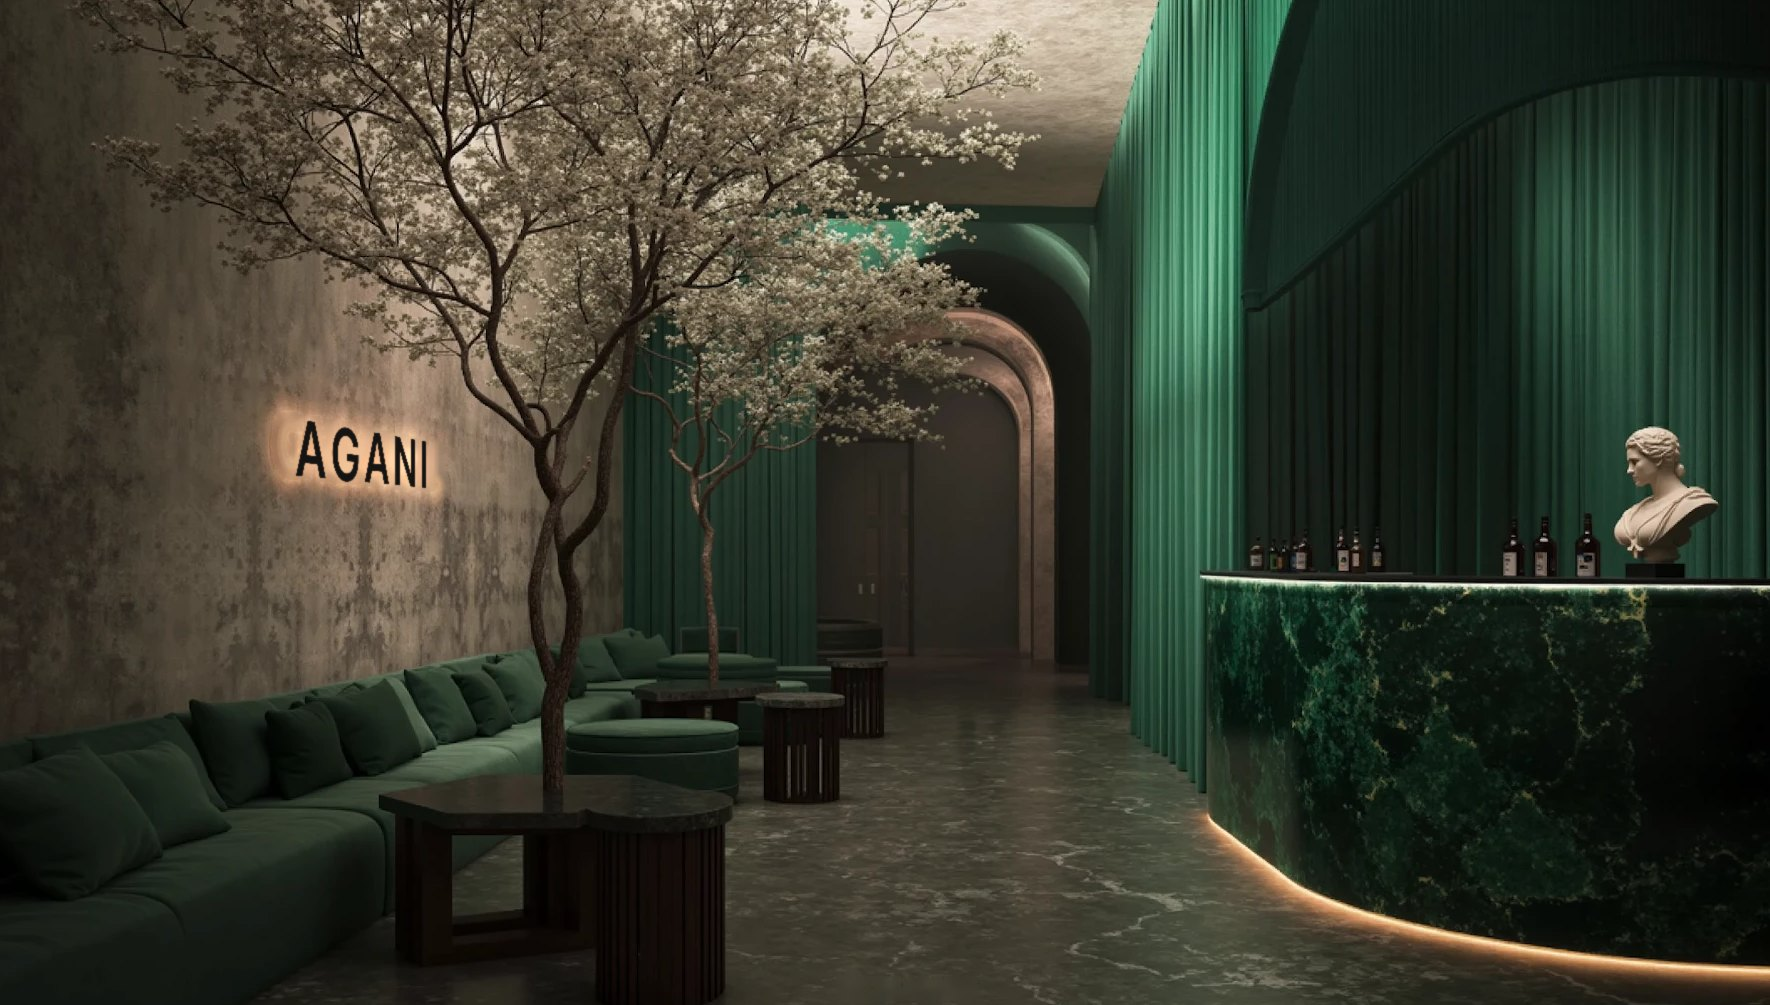
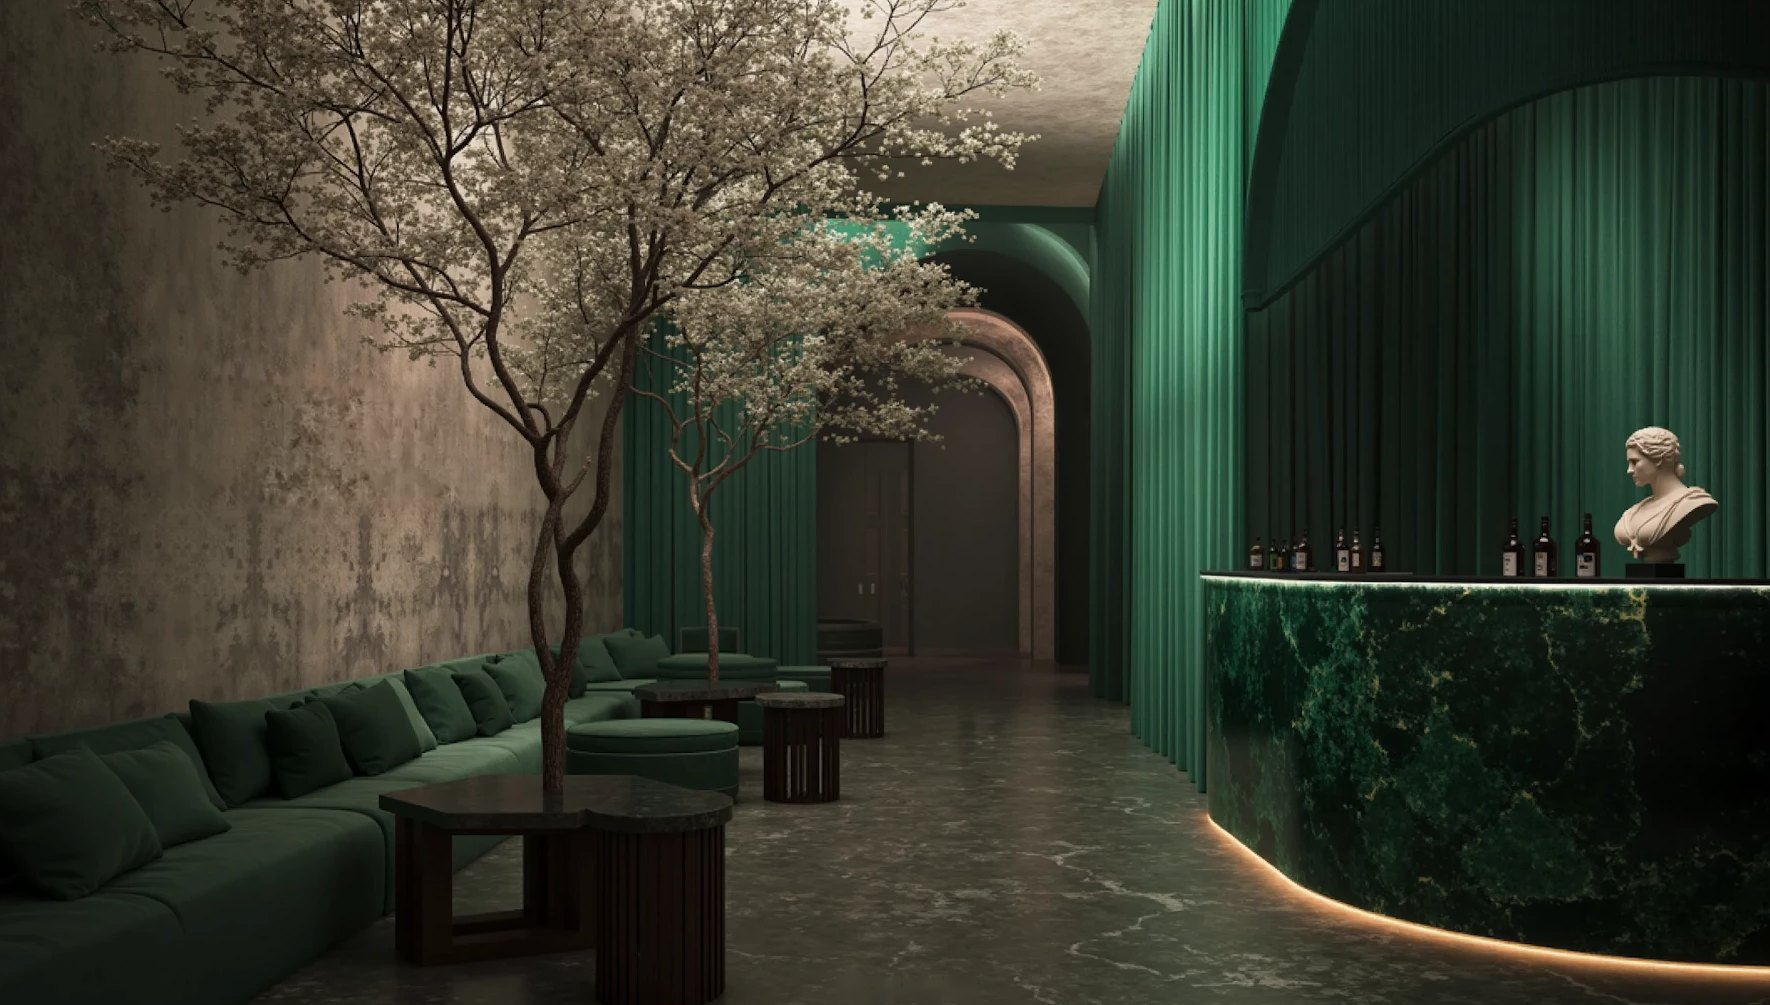
Hero: remove the wall sign and its glow, re-centre the background
Claude-Session: https://claude.ai/code/session_01CjkCMUrMicHjLPMwdRUuZx

Changed region(s): [[0.1243, 0.3701, 0.2486, 0.5244]]

diff --git a/styles.css b/styles.css
@@ -95,7 +95,7 @@ a { color: inherit; }
 /* ---------- hero ---------- */
 .hero { position: relative; min-height: 100vh; min-height: 100svh; display: flex; align-items: center; justify-content: center; text-align: center; overflow: hidden; isolation: isolate; }
 .hero-bg { position: absolute; inset: 0; z-index: -2; }
-.hero-bg img { width: 100%; height: 100%; object-fit: cover; object-position: 92% 100%; transform: scale(1.06); transform-origin: 70% 60%; }
+.hero-bg img { width: 100%; height: 100%; object-fit: cover; object-position: 50% 100%; transform: scale(1.06); transform-origin: 60% 60%; }
 .js .hero-bg img { animation: drift 28s var(--ease) both alternate infinite; }
 @keyframes drift { from { transform: scale(1.12) translate3d(1%, 0, 0); } to { transform: scale(1.04) translate3d(-1%, -1%, 0); } }
 .hero::before { /* cinematic grade */

diff --git a/README.md b/README.md
@@ -13,4 +13,4 @@ Static HTML, CSS, and vanilla JavaScript. No build step. Every page works with J
 | `about.html` | Full experience, education, and skills |
 | `cv.html` | Print source for `assets/Mathews-Agani-CV.pdf` (not linked from the site) |
 
-The hero background is an AI-generated interior render whose creator does not require credit; the wall sign was edited to read AGANI.
+The hero background is an AI-generated interior render whose creator does not require credit; the wall sign was removed.
